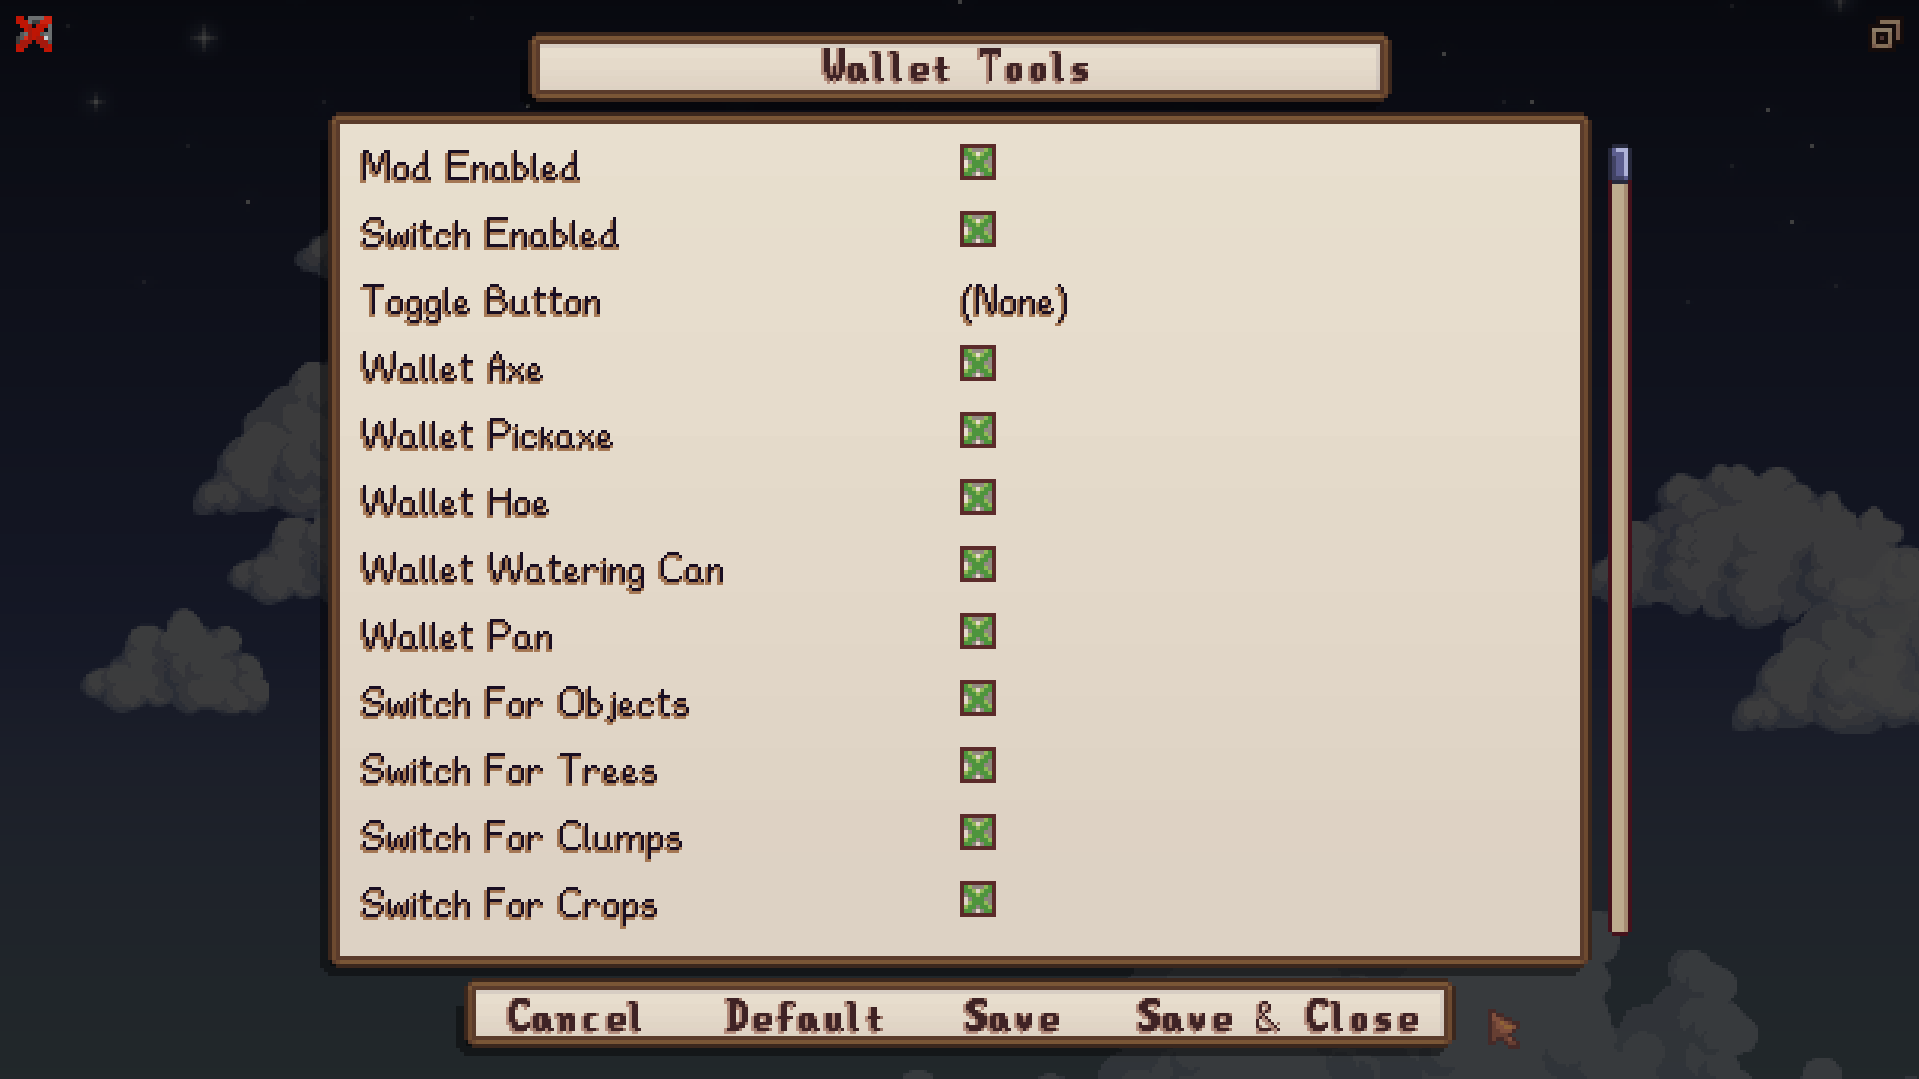
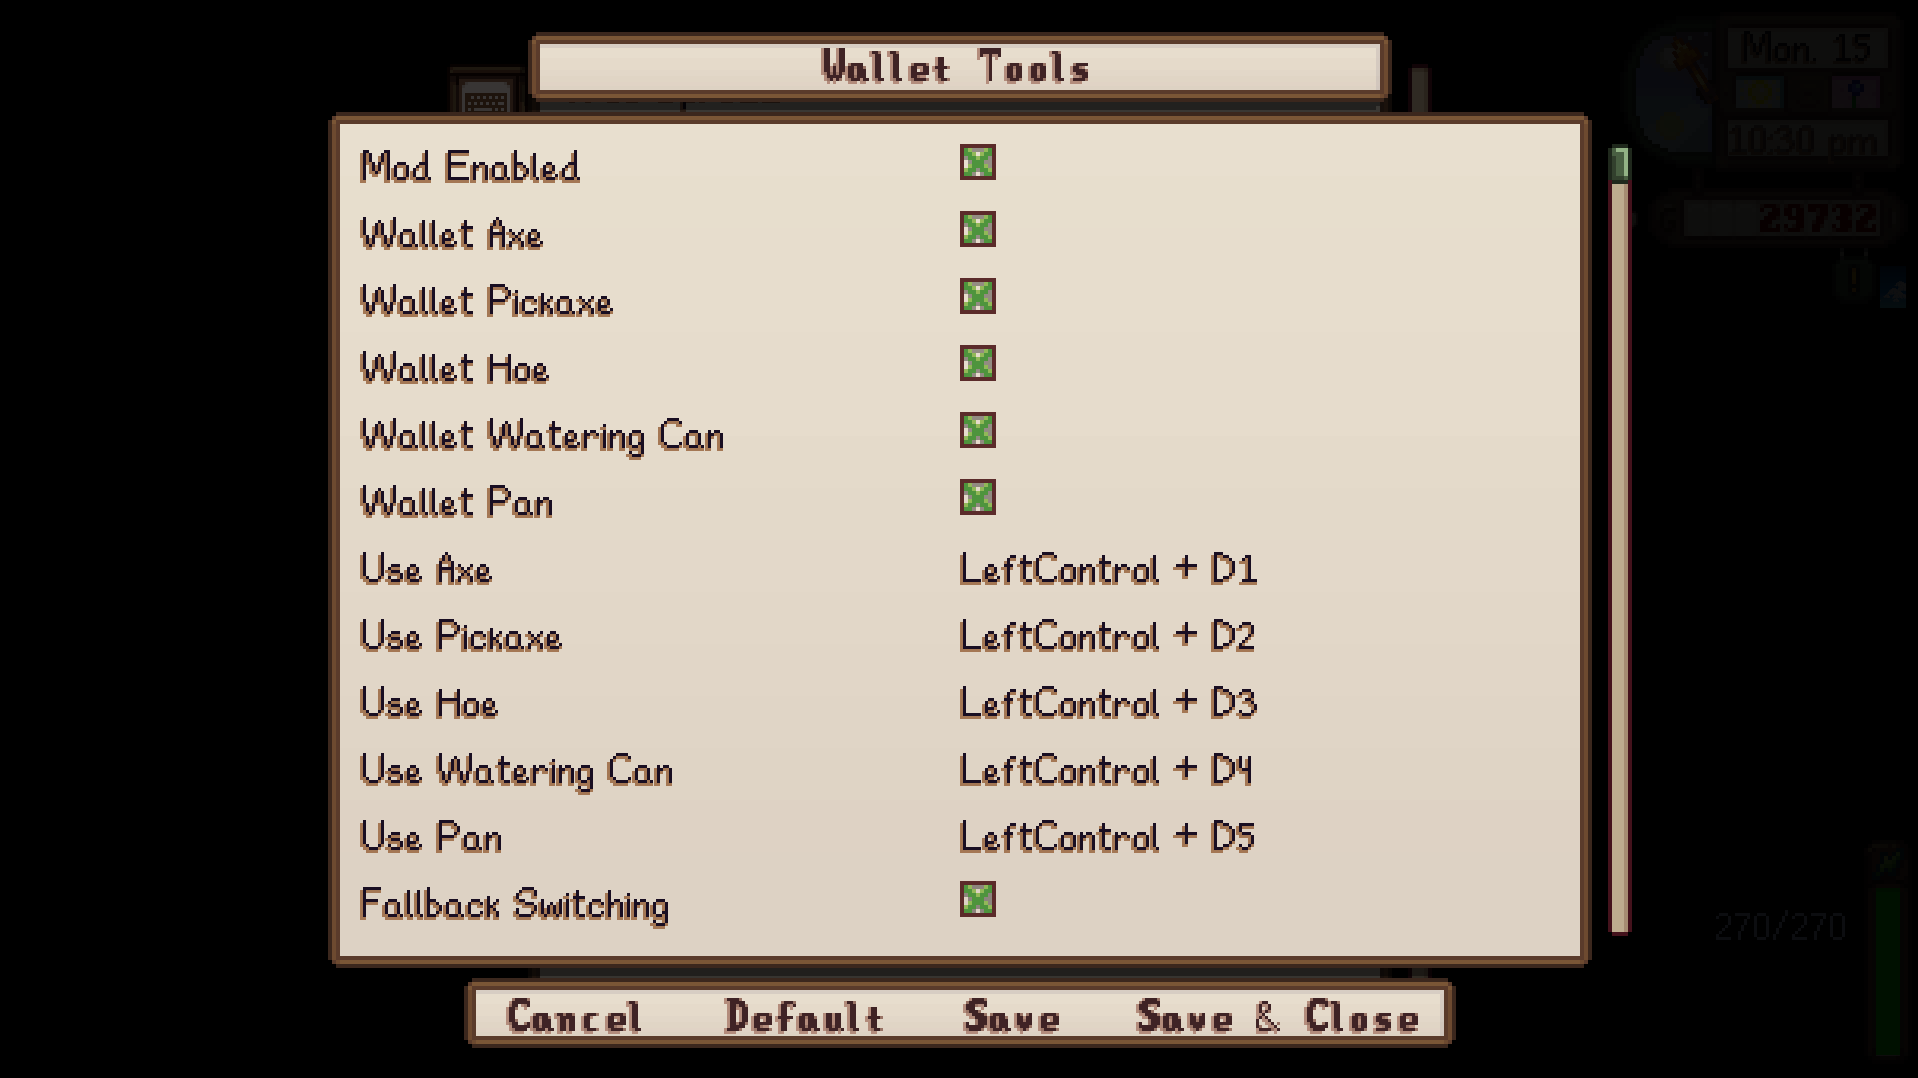
Add files via upload

diff --git a/Wallet Tools/Wallet Tools Source/ModEntry.cs b/Wallet Tools/Wallet Tools Source/ModEntry.cs
@@ -60,6 +60,7 @@ public sealed class ModEntry : Mod
         helper.Events.GameLoop.Saving += OnSaving;
         helper.Events.GameLoop.UpdateTicked += OnUpdateTicked;
         helper.Events.Player.InventoryChanged += OnInventoryChanged;
+        helper.Events.Input.ButtonPressed += OnButtonPressed;
 
         Harmony = new Harmony(ModManifest.UniqueID);
         Harmony.PatchAll(Assembly.GetExecutingAssembly());
@@ -292,6 +293,12 @@ public sealed class ModEntry : Mod
             AddBool(GmcmApi, nameof(Config.WalletWateringCan), () => Config.WalletWateringCan, value => Config.WalletWateringCan = value, "Wallet Watering Can", "Move the watering can into the wallet when found in inventory.");
             AddBool(GmcmApi, nameof(Config.WalletPan), () => Config.WalletPan, value => Config.WalletPan = value, "Wallet Pan", "Move the copper pan into the wallet when found in inventory.");
 
+            AddKeybind(GmcmApi, nameof(Config.UseAxeHotkey), () => Config.UseAxeHotkey, value => Config.UseAxeHotkey = value, "Use Axe", "Immediately use the wallet axe.");
+            AddKeybind(GmcmApi, nameof(Config.UsePickaxeHotkey), () => Config.UsePickaxeHotkey, value => Config.UsePickaxeHotkey = value, "Use Pickaxe", "Immediately use the wallet pickaxe.");
+            AddKeybind(GmcmApi, nameof(Config.UseHoeHotkey), () => Config.UseHoeHotkey, value => Config.UseHoeHotkey = value, "Use Hoe", "Immediately use the wallet hoe.");
+            AddKeybind(GmcmApi, nameof(Config.UseWateringCanHotkey), () => Config.UseWateringCanHotkey, value => Config.UseWateringCanHotkey = value, "Use Watering Can", "Immediately use the wallet watering can.");
+            AddKeybind(GmcmApi, nameof(Config.UsePanHotkey), () => Config.UsePanHotkey, value => Config.UsePanHotkey = value, "Use Pan", "Immediately use the wallet pan.");
+
             AddBool(GmcmApi, nameof(Config.FallbackSwitchEnabled), () => Config.FallbackSwitchEnabled, value => Config.FallbackSwitchEnabled = value, "Fallback Switching", "Use Wallet Tools' built-in switching only when Tool Smart Switch and AutomateToolSwap are not installed.");
             AddBool(GmcmApi, nameof(Config.FallbackSwitchForObjects), () => Config.FallbackSwitchForObjects, value => Config.FallbackSwitchForObjects = value, "Fallback: Objects", "Fallback switches to axe, pickaxe, or hoe for matching objects.");
             AddBool(GmcmApi, nameof(Config.FallbackSwitchForTrees), () => Config.FallbackSwitchForTrees, value => Config.FallbackSwitchForTrees = value, "Fallback: Trees", "Fallback switches to axe, pickaxe, or hoe for trees and saplings.");
@@ -316,6 +323,11 @@ public sealed class ModEntry : Mod
     private void AddBool(IGenericModConfigMenuApi gmcm, string fieldId, Func<bool> getValue, Action<bool> setValue, string name, string tooltip)
     {
         gmcm.AddBoolOption(ModManifest, getValue, setValue, () => name, () => tooltip, fieldId);
+    }
+
+    private void AddKeybind(IGenericModConfigMenuApi gmcm, string fieldId, Func<StardewModdingAPI.Utilities.KeybindList> getValue, Action<StardewModdingAPI.Utilities.KeybindList> setValue, string name, string tooltip)
+    {
+        gmcm.AddKeybindList(ModManifest, getValue, setValue, () => name, () => tooltip, fieldId);
     }
 
     private void OnSaveLoaded(object? sender, SaveLoadedEventArgs e)
@@ -354,6 +366,46 @@ public sealed class ModEntry : Mod
             return;
 
         ConvertInventoryTools(e.Player);
+    }
+
+    private void OnButtonPressed(object? sender, ButtonPressedEventArgs e)
+    {
+        if (!Context.IsWorldReady || !Config.ModEnabled || Game1.activeClickableMenu is not null || Game1.fadeToBlack || !Context.CanPlayerMove)
+            return;
+
+        WalletToolKind? requested = GetRequestedHotkeyTool();
+        if (requested is null)
+            return;
+
+        Helper.Input.Suppress(e.Button);
+        TryUseWalletToolHotkey(Game1.player, requested.Value);
+    }
+
+    private WalletToolKind? GetRequestedHotkeyTool()
+    {
+        if (Config.UseAxeHotkey.JustPressed())
+            return WalletToolKind.Axe;
+        if (Config.UsePickaxeHotkey.JustPressed())
+            return WalletToolKind.Pickaxe;
+        if (Config.UseHoeHotkey.JustPressed())
+            return WalletToolKind.Hoe;
+        if (Config.UseWateringCanHotkey.JustPressed())
+            return WalletToolKind.WateringCan;
+        if (Config.UsePanHotkey.JustPressed())
+            return WalletToolKind.Pan;
+
+        return null;
+    }
+
+    private void TryUseWalletToolHotkey(Farmer player, WalletToolKind kind)
+    {
+        if (!HasStoredEnabledTool(kind))
+            return;
+
+        if (!TrySetTemporaryWalletTool(player, kind))
+            return;
+
+        Game1.pressUseToolButton();
     }
 
     private static bool IsToolUpgradeLocation(GameLocation? location)

diff --git a/Wallet Tools/Wallet Tools Source/ModConfig.cs b/Wallet Tools/Wallet Tools Source/ModConfig.cs
@@ -1,3 +1,6 @@
+using StardewModdingAPI;
+using StardewModdingAPI.Utilities;
+
 namespace ThaleTheGreat.WalletTools;
 
 internal sealed class ModConfig
@@ -8,6 +11,13 @@ internal sealed class ModConfig
     public bool WalletHoe { get; set; } = true;
     public bool WalletWateringCan { get; set; } = true;
     public bool WalletPan { get; set; } = true;
+
+
+    public KeybindList UseAxeHotkey { get; set; } = new(new Keybind(SButton.LeftControl, SButton.D1));
+    public KeybindList UsePickaxeHotkey { get; set; } = new(new Keybind(SButton.LeftControl, SButton.D2));
+    public KeybindList UseHoeHotkey { get; set; } = new(new Keybind(SButton.LeftControl, SButton.D3));
+    public KeybindList UseWateringCanHotkey { get; set; } = new(new Keybind(SButton.LeftControl, SButton.D4));
+    public KeybindList UsePanHotkey { get; set; } = new(new Keybind(SButton.LeftControl, SButton.D5));
 
     public bool FallbackSwitchEnabled { get; set; } = true;
     public bool FallbackSwitchForObjects { get; set; } = true;